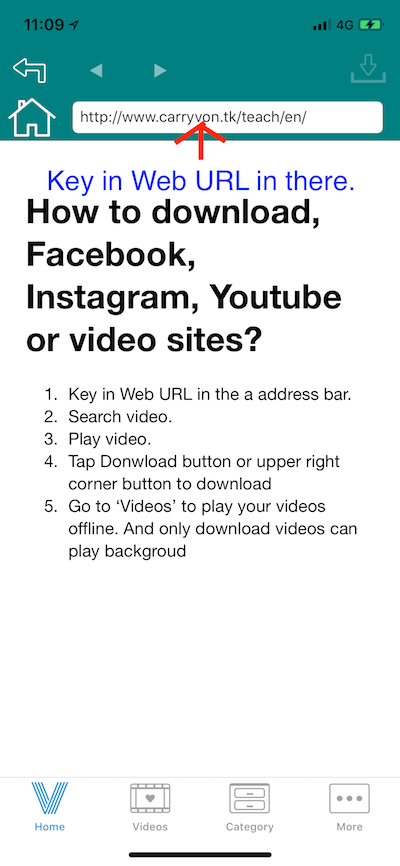
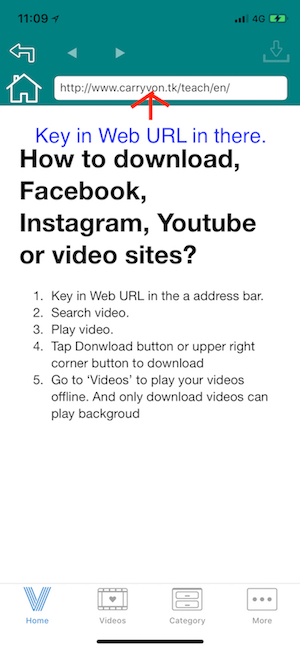
Add gif

diff --git a/teach/en/index.html b/teach/en/index.html
@@ -9,7 +9,7 @@
         <li>Go to ‘Videos’ to play your videos offline. And only download videos can play backgroud</li>
     </ol>
     <!-- <img src='safe_image.gif'> -->
-    <img src='first.jpg'>
+    <img src='first.gif'>
         <!-- <p>If you have any questions or suggestions about my Terms and Conditions, do not hesitate to contact -->
                       <!-- me at app.service.tommyz1981@gmail.com -->
         <!-- </p> -->

diff --git a/teach/tw/index.html b/teach/tw/index.html
@@ -9,7 +9,7 @@
         <li>Go to ‘Videos’ to play your videos offline. And only download videos can play backgroud</li>
     </ol>
     <!-- <img src='safe_image.gif'> -->
-    <img src='first.jpg'>
+    <img src='first.gif'>
         <!-- <p>If you have any questions or suggestions about my Terms and Conditions, do not hesitate to contact -->
                       <!-- me at app.service.tommyz1981@gmail.com -->
         <!-- </p> -->
